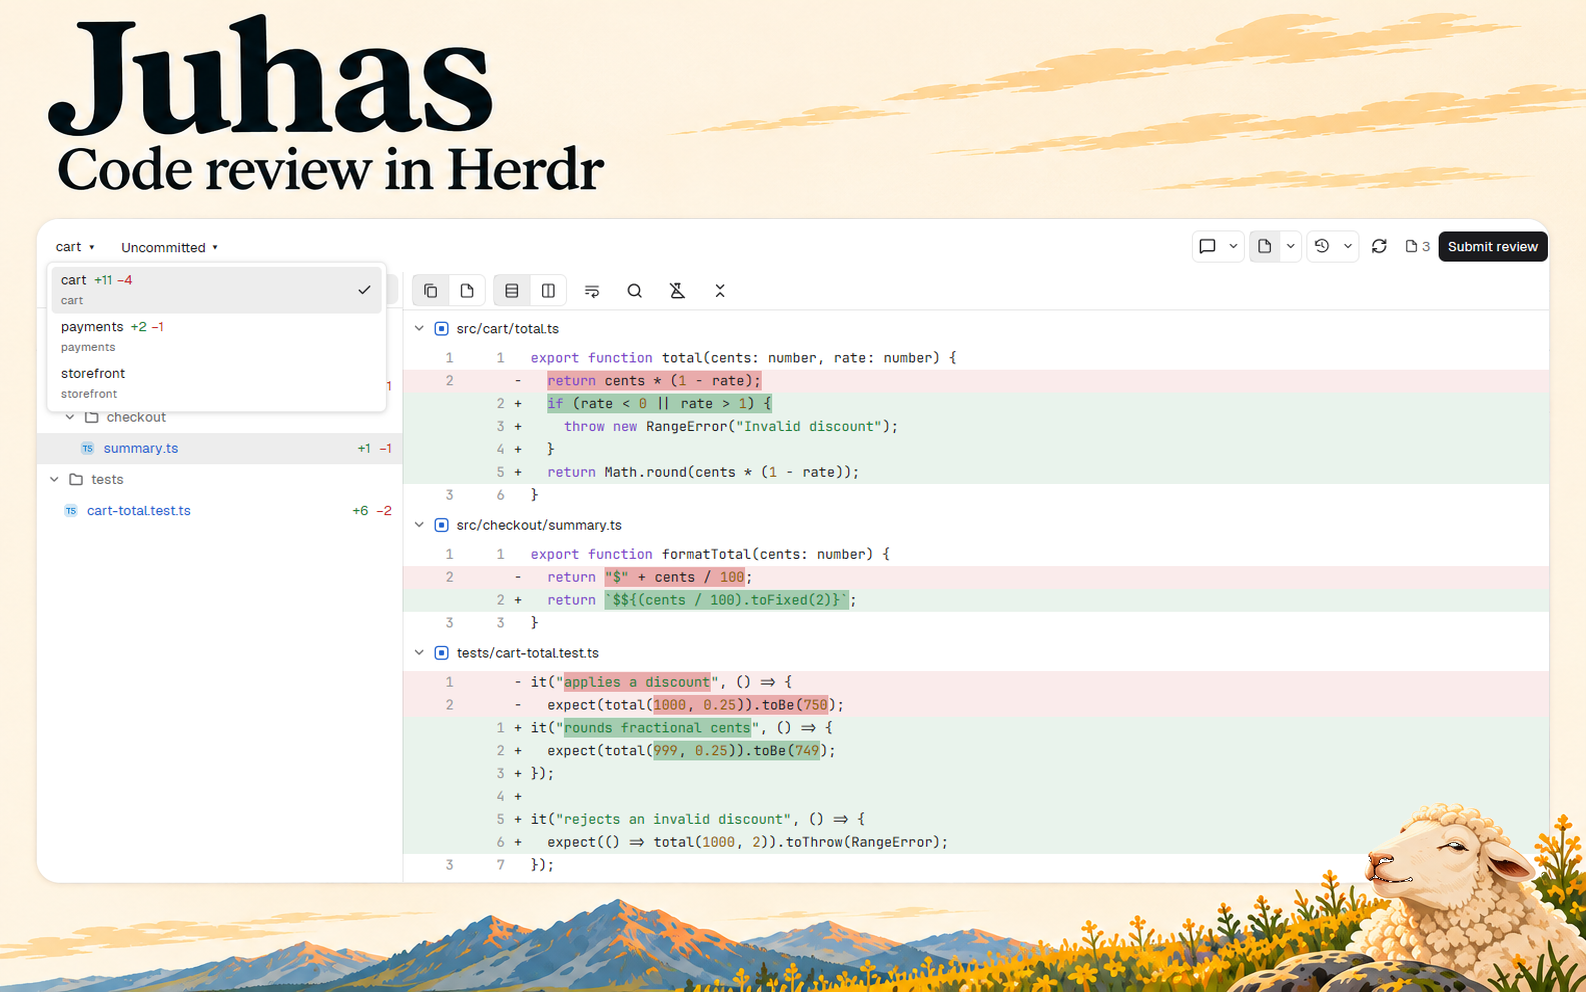
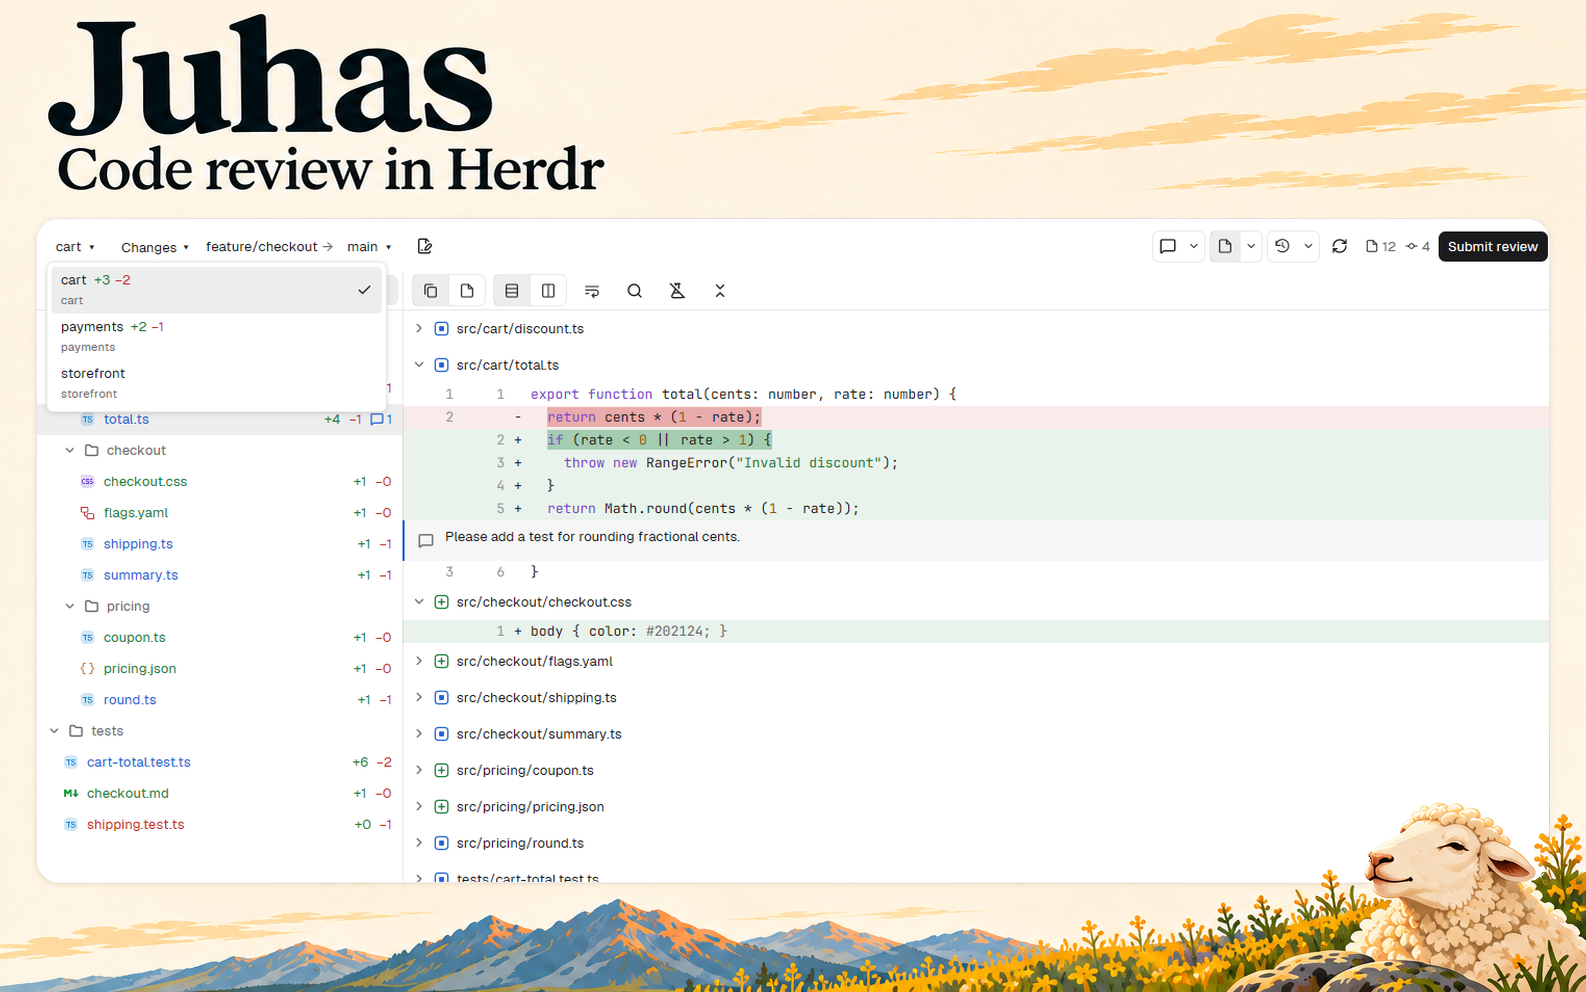
Polish Juhas preview and inline comment controls

diff --git a/mods/juhas/ui.js b/mods/juhas/ui.js
@@ -8,6 +8,8 @@ import {fileRows,splitRows,changeGroups,filterDrafts,isTestFile} from './review-
 import {annotatePatch,composerRows,measuredCommentRows,commentHeight,INLINE_EDITOR_HEIGHT,INLINE_EDITOR_MAX_HEIGHT} from './comments.js';
 import {formatCommitTime} from './commit-time.js';
 import {decorateLine,intraline,multiFileRows,withLineInfo} from './reading.js';
+const REVIEW_PANEL_TOOLBAR_HEIGHT=36;
+
 export function uiMetrics(){const look=settings();return typography(look.ui_font_size,window.rem_size());}
 export function nativeFrame(id,{framed=true}={}){const type=uiMetrics();const t=theme();return v_flex().id(id).size_full().min_h(0).min_w(0).when(framed,e=>e.rounded(10).border_1().border_color(t.border)).overflow_hidden().bg(t.background).text_color(t.foreground).text_size(type.body).line_height(type.lineHeight);}
 function control(element,{active=false,primary=false,segment=false}={}){const type=uiMetrics();const t=theme();return element.h(type.px(28)).flex_none().px(8).flex().gap(6).items_center().justify_center().rounded(6).text_size(type.control).line_height(type.lineHeight).cursor_pointer()
@@ -86,7 +88,7 @@ export function virtualList(id,items,height,row,click,scrollHandle=null,viewport
 export function section(title){const type=uiMetrics();const t=theme();return div().h(type.px(34)).flex_none().px(10).py(type.px(6)).text_size(type.body).font_semibold().text_color(t.foreground).bg(t.chrome).child(title);}
 function panelHeader(title,detail){
  const type=uiMetrics(),t=theme();
- return h_flex().min_h(type.px(34)).w_full().flex_none().items_center().pl(type.px(10)).pr(type.px(4)).gap(type.px(4))
+ return h_flex().min_h(type.px(REVIEW_PANEL_TOOLBAR_HEIGHT)).w_full().flex_none().items_center().pl(type.px(10)).pr(type.px(4)).gap(type.px(4))
   .bg(t.background).border_b(1).border_color(t.border)
   .child(h_flex().flex_1().min_w(0).items_center().gap(type.px(8))
    .child(text(title).flex_none().font_semibold())
@@ -245,7 +247,7 @@ export function diffPane(view,cx){const type=uiMetrics();
  const minWidth=wrap||s.patch?.binary||s.patch?.modeOnly?0:split?Math.max(800,...rows.filter(r=>r.kind==='pair').map(r=>100+Math.max(r.old?.text.length||0,r.next?.text.length||0)*14.6)):Math.max(600,...annotated.filter(r=>r.kind!=='comment').map(r=>100+r.text.length*7.3));
  return v_flex().size_full().min_w(0).min_h(0)
   .on_size_change((size,cx)=>{if(view.diffWidth!==size.width){view.diffWidth=size.width;view.prepareFileHeaders?.(cx);}})
-  .child(h_flex().min_h(type.px(36)).flex_none().px(8).gap(6).flex_wrap().items_center().border_b(1).border_color(t.border)
+  .child(h_flex().min_h(type.px(REVIEW_PANEL_TOOLBAR_HEIGHT)).flex_none().px(8).gap(6).flex_wrap().items_center().border_b(1).border_color(t.border)
    .child(buttonGroup('diff-files-mode',[{value:true,label:svg('mods/juhas/icons/all-files.svg').size(15),tooltip:'All files'},{value:false,label:svg('mods/juhas/icons/single-file.svg').size(15),tooltip:'Single file'}],Boolean(view.allFiles),(all,cx)=>view.toggleAllFiles?.(all,cx)))
    .child(buttonGroup('diff-mode',[{value:'unified',label:svg('mods/juhas/icons/diff-unified.svg').size(15),tooltip:'Unified diff'},{value:'split',label:svg('mods/juhas/icons/diff-split.svg').size(15),tooltip:'Split diff'}],view.diffMode||'unified',(mode,cx)=>view.setDiffMode(mode,cx)))
    .child(toggle('diff-wrap',svg('mods/juhas/icons/wrap.svg').size(15),wrap,(pressed,cx)=>view.toggleWrap?.(pressed,cx),{tooltip:'Wrap long lines'}).disabled(!view.toggleWrap))

diff --git a/mods/juhas/inline-editor.js b/mods/juhas/inline-editor.js
@@ -6,12 +6,18 @@ import {INLINE_EDITOR_HEIGHT,INLINE_EDITOR_MAX_HEIGHT} from './comments.js';
 export default class InlineEditor extends View {
  init(p,cx){this.p=p;this.handle=cx.focus_handle();p.input.set_rows(2);p.input.set_auto_grow(2,5);
   p.input.set_submit_on_enter?.(false);
-  cx.bind_keys(['JuhasComment','JuhasComment > Input','JuhasComment > Textarea'].flatMap(context=>[{keystroke:'ctrl-enter',action:'juhas.comment.submit',context},{keystroke:'cmd-enter',action:'juhas.comment.submit',context}]));
+  cx.bind_keys(['JuhasComment','JuhasComment > Input','JuhasComment > Textarea'].flatMap(context=>[
+   {keystroke:'ctrl-enter',action:'juhas.comment.submit',context},
+   {keystroke:'cmd-enter',action:'juhas.comment.submit',context},
+   {keystroke:'escape',action:'juhas.comment.cancel',context},
+  ]));
   p.input.on('submit',(event,cx)=>{if(event.secondary)this.submit(cx);});
  }
  submit(cx){cx.stop_propagation();if(!this.p.owner.busy)this.p.save();}
+ cancel(cx){cx.stop_propagation();this.p.cancel();}
  render(){const type=uiMetrics();const p=this.p,t=theme();
   return v_flex().on_mouse_down('left',(_e,cx)=>cx.stop_propagation()).on_click((_e,cx)=>cx.stop_propagation()).track_focus(this.handle).key_context('JuhasComment').on_action('juhas.comment.submit',(_e,cx)=>this.submit(cx))
+   .on_action('juhas.comment.cancel',(_e,cx)=>this.cancel(cx))
    .on_size_change((size,cx)=>{const height=Math.ceil(size.height);if(height>0&&p.owner.inlineEditorHeight!==height){p.owner.inlineEditorHeight=height;p.owner.headerAction({kind:'editor-size'});}})
    .min_h(type.px(INLINE_EDITOR_HEIGHT)).max_h(type.px(INLINE_EDITOR_MAX_HEIGHT)).w_full().min_w(0).px(14).py(type.px(8)).gap(6)
    .child(Textarea.new(p.input).min_h(type.px(64)).max_h(type.px(136)).line_height(type.lineHeight).flex_none().min_w(0).px(8).py(type.px(6)).rounded(6)
@@ -19,7 +25,7 @@ export default class InlineEditor extends View {
    .child(h_flex().flex_none().gap(6).items_center()
     .child(text('Ctrl/⌘ Enter to comment',true).text_size(type.caption))
     .child(div().flex_1())
-    .child(button('cancel-inline-comment','Cancel',()=>p.cancel()))
+    .child(button('cancel-inline-comment','Cancel',(_e,cx)=>this.cancel(cx),{tooltip:'Cancel comment (Escape)'}))
     .child(button('save-inline-comment',p.owner.editId?'Save changes':'Comment',()=>p.save(),{primary:true}).disabled(Boolean(p.owner.busy))));
  }
 }
